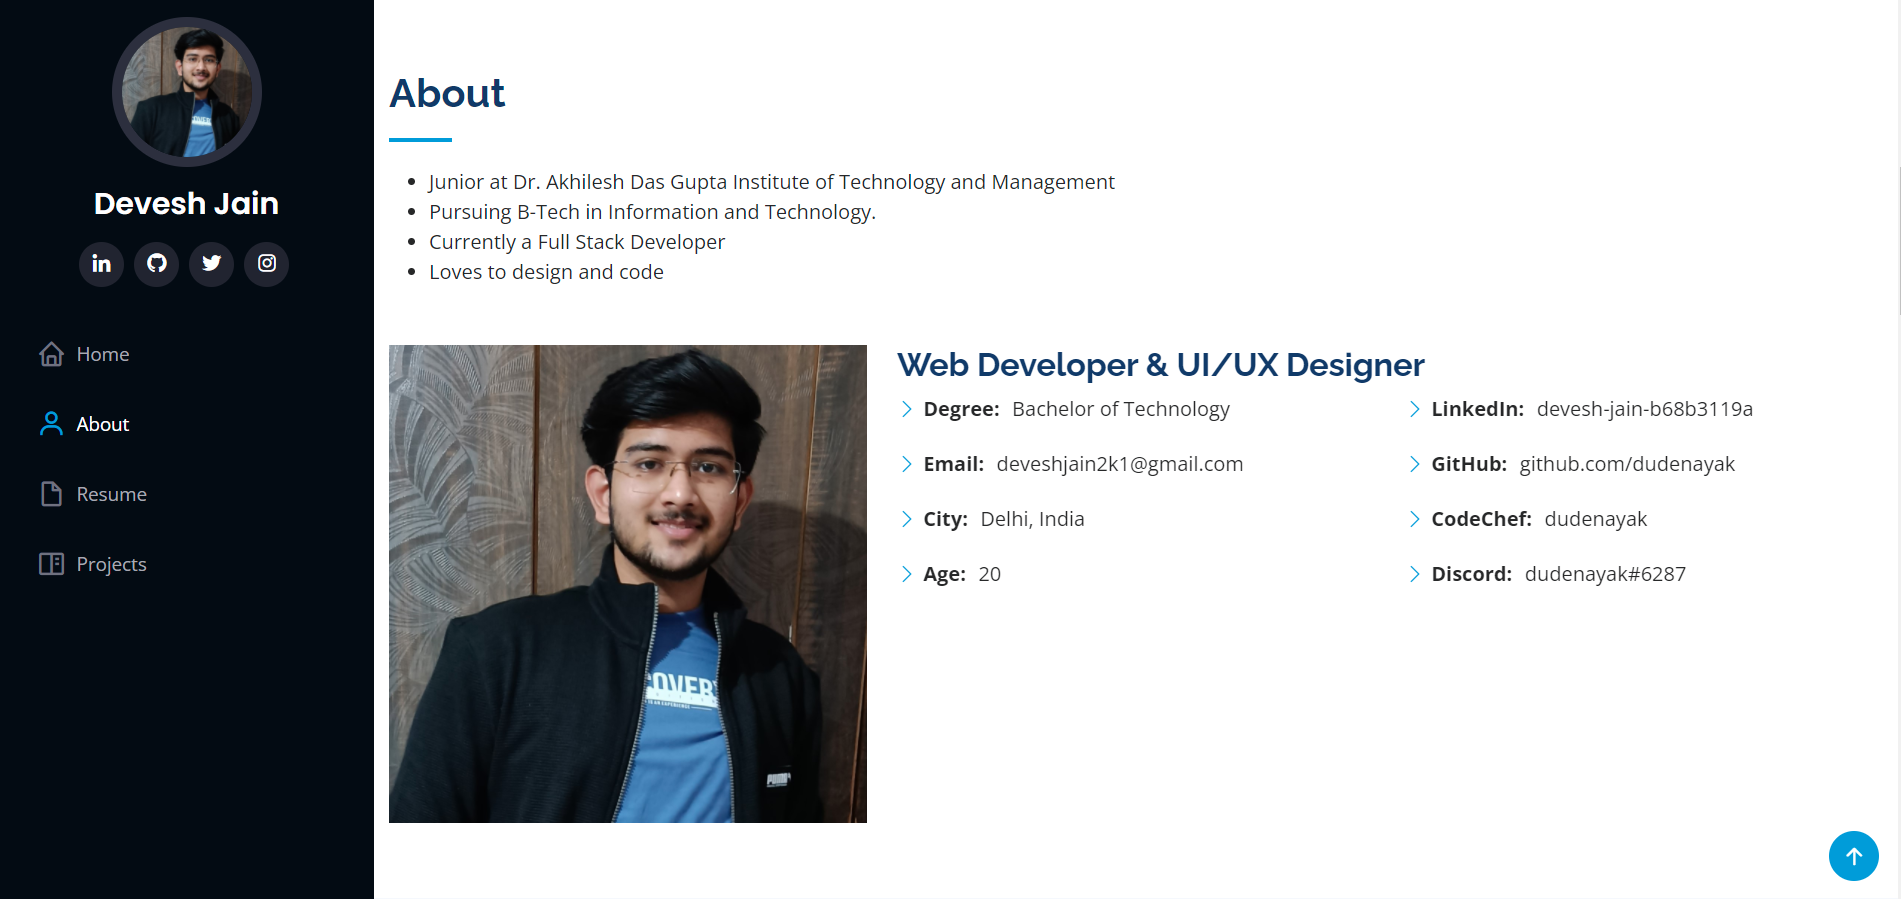
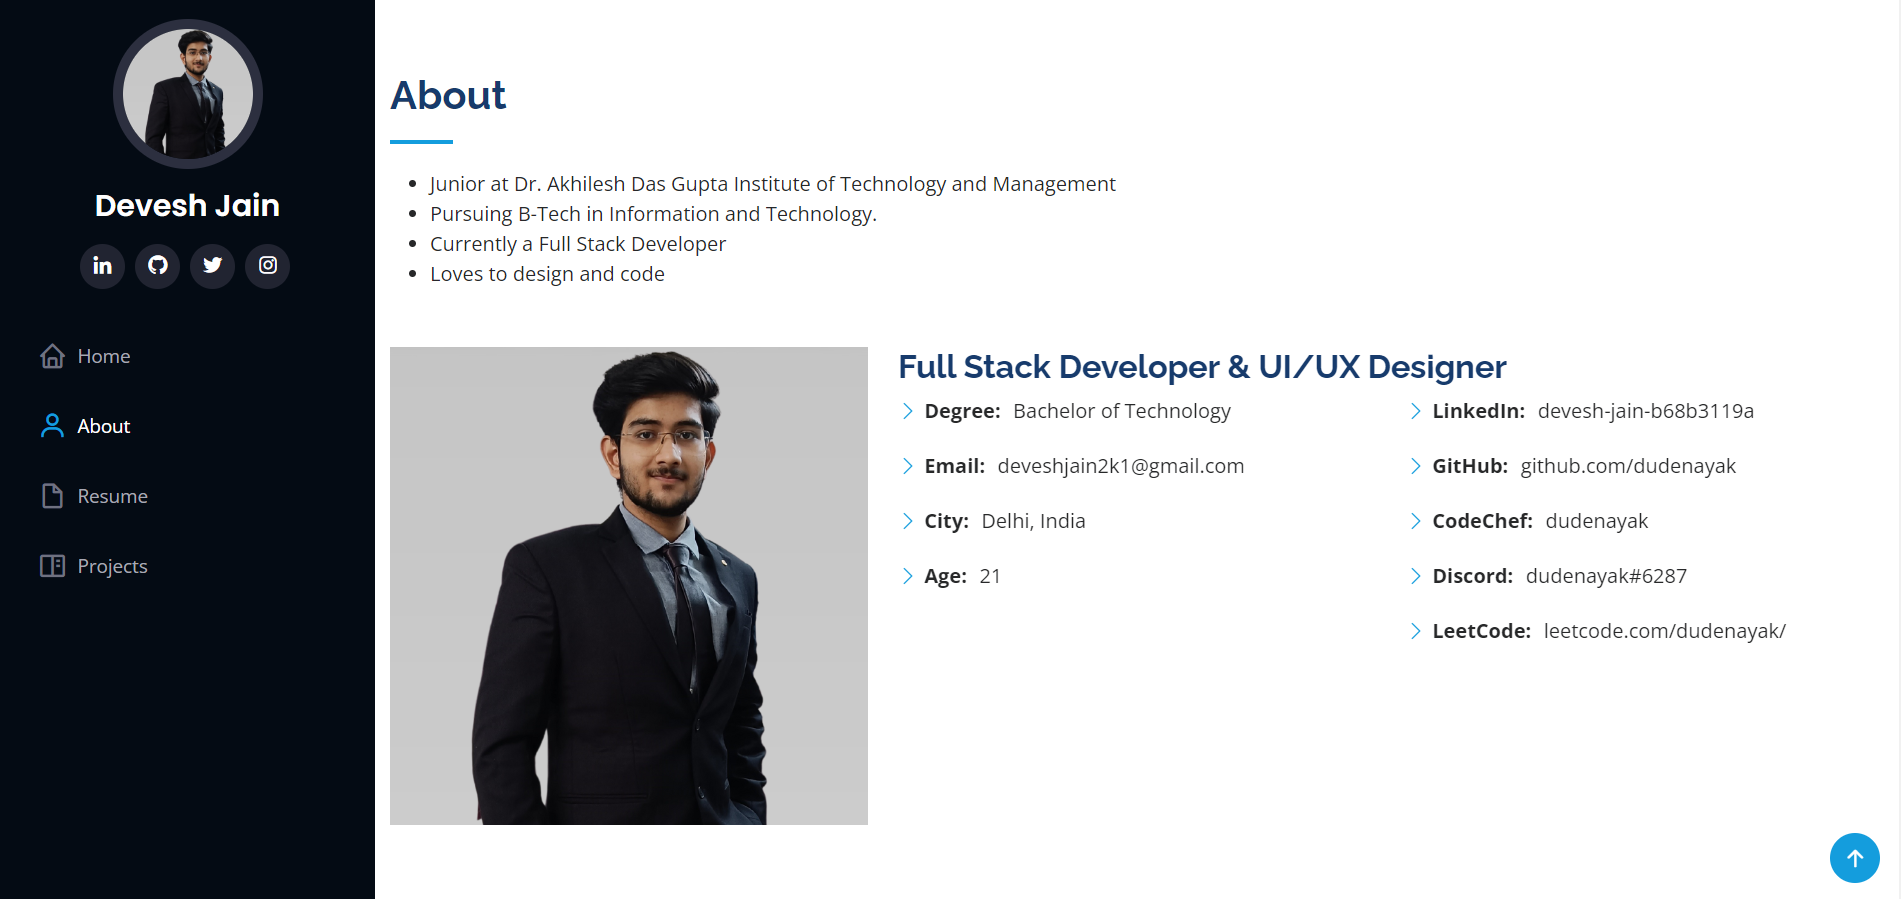
Projects uploaded

diff --git a/index.html b/index.html
@@ -39,7 +39,7 @@
     <div class="d-flex flex-column">
 
       <div class="profile">
-        <img src="assets/img/profile-img-new.jpg" alt="" class="img-fluid rounded-circle">
+        <img src="assets/img/profile-img-new.png" alt="" class="img-fluid rounded-circle">
         <h1 class="text-light"><a href="index.html">Devesh Jain</a></h1>
         <div class="social-links mt-3 text-center">
           <a href="https://www.linkedin.com/in/devesh-jain-b68b3119a/" target="_blank" class="linkedin"><i class="bx bxl-linkedin"></i></a>
@@ -94,10 +94,11 @@
 
         <div class="row">
           <div class="col-lg-4" data-aos="fade-right">
-            <img src="assets/img/profile-img-new.jpg" class="img-fluid" alt="">
+            <img src="assets/img/profile-img-new.png" class="img-fluid" alt="">
           </div>
           <div class="col-lg-8 pt-4 pt-lg-0 content" data-aos="fade-left">
-            <h3>Web Developer &amp; UI/UX Designer</h3>
+            
+            <h3>Full Stack Developer &amp; UI/UX Designer</h3>
            
             <div class="row">
               <div class="col-lg-6">
@@ -106,7 +107,7 @@
                   <li><i class="bi bi-chevron-right"></i> <strong>Degree:</strong> <span>Bachelor of Technology</span></li>
                   <li><i class="bi bi-chevron-right"></i> <strong>Email:</strong> <span>deveshjain2k1@gmail.com</span></li>
                   <li><i class="bi bi-chevron-right"></i> <strong>City:</strong> <span>Delhi, India</span></li>
-                  <li><i class="bi bi-chevron-right"></i> <strong>Age:</strong> <span>20</span></li>
+                  <li><i class="bi bi-chevron-right"></i> <strong>Age:</strong> <span>21</span></li>
                 </ul>
               </div>
               <div class="col-lg-6">
@@ -115,6 +116,7 @@
                   <li><i class="bi bi-chevron-right"></i> <strong>GitHub:</strong> <span>github.com/dudenayak</span></li>
                   <li><i class="bi bi-chevron-right"></i> <strong>CodeChef:</strong> <span>dudenayak</span></li>
                   <li><i class="bi bi-chevron-right"></i> <strong>Discord:</strong> <span>dudenayak#6287</span></li>
+                  <li><i class="bi bi-chevron-right"></i> <strong>LeetCode:</strong> <span>leetcode.com/dudenayak/</span></li>
                 </ul>
               </div>
             </div>
@@ -157,7 +159,7 @@
             </div>
 
             <div class="progress">
-              <span class="skill">JavaScript <i class="val">75%</i></span>
+              <span class="skill">JavaScript <i class="val">85%</i></span>
               <div class="progress-bar-wrap">
                 <div class="progress-bar" role="progressbar" aria-valuenow="75" aria-valuemin="0" aria-valuemax="100"></div>
               </div>
@@ -182,7 +184,7 @@
           <div class="col-lg-6" data-aos="fade-up" data-aos-delay="100">
 
             <div class="progress">
-              <span class="skill">java <i class="val">80%</i></span>
+              <span class="skill">java <i class="val">90%</i></span>
               <div class="progress-bar-wrap">
                 <div class="progress-bar" role="progressbar" aria-valuenow="80" aria-valuemin="0" aria-valuemax="100"></div>
               </div>
@@ -247,7 +249,7 @@
               <h5>Aug 2019 - Present</h5>
               <p><em> Dr. Akhilesh Das Gupta Institute of Technology and Management</em></p>
               <p>Delhi, India</p>
-              <p>CGPA = 8.71(Aggregate of 4 semesters)</p>
+              <p>CGPA = 8.88 (Aggregate of 5 semesters)</p>
             </div>
             <div class="resume-item">
               <h4>12TH CBSE BOARD</h4>
@@ -489,10 +491,10 @@
               href="assets\img\Portfolio\6.png"
               data-gallery="portfolioGallery"
               class="portfolio-lightbox"
-              title="Portfolio"
+              title="Netflix Clone"
               ><i class="bx bx-plus"></i
             ></a>
-            <a href="https://github.com/dudenayak/Portfolio" title="More Details" target="_blank"
+            <a href="https://github.com/dudenayak/Netflix_Clone" title="More Details" target="_blank"
               ><i class="bx bx-link"></i
             ></a>
           </div>
